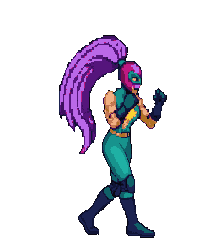
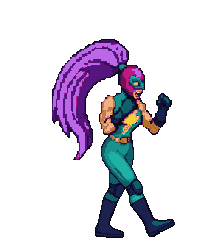
Consistencia de tamano medida y walk rehecho con la plantilla rocosa
- tools/consistency.py: compara cada frame con la stance (mascara, alto total,
  coleta, tinta y ancho de torso a +-5 %; piernas solo informativo) y falla si
  el personaje cambia de tamano.
- Causa del fallo que se veia: el walk anterior era un 11 % mas estrecho de
  torso y un 12 % mas ligero que la stance aunque la cabeza midiera lo mismo.
- style.json: entra promptTemplate, la plantilla con los cinco anclajes de
  tamano y la coletilla de la coleta. GUIA: seccion de la plantilla y de la
  comprobacion.
- Walk rehecho con esa plantilla, una pose por imagen: los 4 frames pasan el
  medidor y la paleta queda a menos de 2 puntos de la stance.

Changed region(s): [[0.24, 0.1458, 0.87, 0.9917]]

diff --git a/preview/nueva.html b/preview/nueva.html
@@ -117,7 +117,7 @@
 (() => {
   // El archivo no se toca y el escenario no lo escala: 200 nativos, 1:1.
   // ?v= para que el navegador no sirva el PNG viejo de esta misma ruta.
-  window.STAGE_FIGHTER = '../voltia/nueva/stance/00.png?v=25';
+  window.STAGE_FIGHTER = '../voltia/nueva/stance/00.png?v=26';
   // Suelo en el centro del rombo dibujado (spec.floorY es 408, el borde trasero).
   window.STAGE_FLOOR_Y = 426;
   window.STAGE_FIGHTER_SCALE = 1;
@@ -202,7 +202,7 @@
     note.textContent = anim.note || '';
     for (const f of anim.frames) {
       const im = new Image();
-      im.src = '../voltia/' + anim.dir + '/' + f + '?v=25';
+      im.src = '../voltia/' + anim.dir + '/' + f + '?v=26';
       await im.decode();
       imgs.push(im);
     }
@@ -210,7 +210,7 @@
     draw();
   }
   try {
-    const guide = await (await fetch('../voltia/guide/style.json?v=25',
+    const guide = await (await fetch('../voltia/guide/style.json?v=26',
       { cache: 'no-store' })).json();
     window.__GUIDE = guide;
     const entries = Object.entries(guide.anims || {});

diff --git a/tools/consistency.py b/tools/consistency.py
@@ -1,0 +1,108 @@
+#!/usr/bin/env python3
+"""Comprueba que un set de frames es del MISMO tamaño que la stance aprobada.
+
+La stance (voltia/nueva/stance/00.png) es el patrón. Este script mide cada
+frame y lo compara con ella:
+
+- `mascara`: alto de la cabeza. Es la escala.
+- `alto`: alto total de la figura (coleta incluida).
+- `coleta`: alto de la coleta.
+- `tinta`: píxeles opacos totales.
+- `ancho 1/3`: ancho del cuerpo a un tercio de la altura (hombros/pecho).
+- `ancho 2/3`: ancho a dos tercios (caderas y piernas).
+
+Si el ancho o la tinta se van, el personaje parece más pequeño aunque la
+cabeza mida lo mismo: es el fallo que se cuela cuando se pide "piernas
+juntas" y el modelo estrecha todo el cuerpo.
+
+Uso:
+    PYTHONPATH=tools/pylibs python3 tools/consistency.py <dir> [<dir> ...]
+        [--tol 5] [--ref voltia/nueva/stance/00.png]
+
+Sale con código 1 si algún frame se pasa de tolerancia.
+"""
+
+import os
+import sys
+
+from PIL import Image
+
+sys.path.insert(0, os.path.dirname(os.path.abspath(__file__)))
+import build_sheet as B  # noqa: E402
+
+ROOT = os.path.dirname(os.path.dirname(os.path.abspath(__file__)))
+HAIR = {(60, 15, 95), (85, 21, 124), (186, 104, 232)}
+
+
+def profile(path):
+    im = Image.open(path).convert('RGBA')
+    px = im.load()
+    w, h = im.size
+    ink = [(x, y) for y in range(h) for x in range(w) if px[x, y][3]]
+    if not ink:
+        return None
+    hp = [(x, y) for (x, y) in ink if px[x, y][:3] in HAIR]
+    top = min(y for _, y in ink)
+    bot = max(y for _, y in ink)
+
+    def width(frac):
+        y = int(top + (bot - top) * frac)
+        xs = [x for x, yy in ink if yy == y]
+        return (max(xs) - min(xs) + 1) if xs else 0
+
+    return {
+        'mascara': B.mask_height(im),
+        'alto': bot - top + 1,
+        'coleta': (max(y for _, y in hp) - min(y for _, y in hp) + 1) if hp else 0,
+        'tinta': len(ink),
+        'ancho 1/3': width(0.33),
+        'ancho 2/3': width(0.66),
+    }
+
+
+def main(argv):
+    tol = 5.0
+    if '--tol' in argv:
+        tol = float(argv[argv.index('--tol') + 1])
+    ref = os.path.join(ROOT, 'voltia', 'nueva', 'stance', '00.png')
+    if '--ref' in argv:
+        ref = argv[argv.index('--ref') + 1]
+    dirs = [a for a in argv if not a.startswith('--')
+            and a not in (str(tol), ref)] or [os.path.dirname(ref)]
+
+    base = profile(ref)
+    print('patrón: %s  %s\n' % (os.path.relpath(ref, ROOT), base))
+    bad = 0
+    for d in dirs:
+        if not os.path.isdir(d):
+            continue
+        print(d)
+        for name in sorted(os.listdir(d)):
+            if not name.endswith('.png'):
+                continue
+            p = profile(os.path.join(d, name))
+            if not p:
+                continue
+            diffs = {k: 100.0 * (p[k] - base[k]) / base[k] if base[k] else 0.0
+                     for k in base}
+            # El ancho a 2/3 es el de las piernas: en un paso cambia de verdad,
+            # así que se informa pero no bloquea. El tamaño lo mandan la cabeza,
+            # el alto, la tinta y el ancho del torso.
+            over = [k for k in diffs if k != 'ancho 2/3' and abs(diffs[k]) > tol]
+            flag = '  OK' if not over else '  <-- FUERA (%s)' % ', '.join(over)
+            if over:
+                bad += 1
+            print('  %s  mascara %2d  %s%s'
+                  % (name, p['mascara'],
+                     '  '.join('%s %+5.1f%%' % (k, v) for k, v in diffs.items()),
+                     flag))
+        print('')
+    if bad:
+        print('%d frame(s) fuera de ±%.1f%%: el personaje no mide lo mismo.' % (bad, tol))
+        return 1
+    print('Todos los frames dentro de ±%.1f%% del patrón.' % tol)
+    return 0
+
+
+if __name__ == '__main__':
+    sys.exit(main(sys.argv[1:]))

diff --git a/voltia/guide/GUIA.md b/voltia/guide/GUIA.md
@@ -271,6 +271,55 @@ Lo que dicen esas tres filas, y lo que hay que copiar (sin plagiar el dibujo):
 Con esto, la alternancia ya no se pide como un truco de tonos: se pide como una
 pose más, con la pierna contraria delante y el mismo puño arriba.
 
+## La plantilla de prompt (rocosa)
+
+Todas las poses se piden con la misma plantilla; solo cambia `{POSE}`. Está
+guardada tal cual en `style.json` → `promptTemplate`.
+
+```
+Copy this sprite EXACTLY. Same character, same colours, same 16 flat inks, same
+thick dark outline, same torso, head, arms, guard, mask, visor, mouth, belt,
+bolt, gloves and ponytail.
+
+SIZE IS LOCKED. The new drawing must be the same size as the reference and stand
+in the same place: the top of the ponytail at the same height, the chin at the
+same height, the belt at the same height, the soles on the same ground line, the
+left edge of the ponytail at the same distance from the left, and the SAME width
+across the shoulders and the chest. Keep the ponytail FULL LENGTH and FULL
+THICKNESS: its tip level with the middle of the thigh. Do not slim the body, do
+not narrow the hips, do not shorten the ponytail, do not make the figure smaller
+or taller. Everything except {WHAT MOVES} stays pixel for pixel as it is.
+
+CHANGE ONLY {WHAT MOVES}: {POSE}.
+
+One single sprite, side view facing right, alone on flat bright green with
+plenty of green all around, no second figure, no floor, no shadow, no text, no
+border, no dithering, no gradients, no anti-aliasing.
+```
+
+Los cinco anclajes (arriba de la coleta, barbilla, cinturón, suelas, borde
+izquierdo de la coleta) son lo que impide que el personaje cambie de tamaño
+aunque la cabeza mida igual. La frase de la coleta va aparte porque es lo
+primero que el modelo acorta cuando se despista.
+
+**Una pose por imagen.** `{POSE}` describe solo las piernas y, si toca, los
+brazos; el resto lo arrastra la referencia.
+
+## Comprobar el tamaño antes de mirarlo
+
+```
+PYTHONPATH=tools/pylibs python3 tools/consistency.py voltia/nueva/walk
+```
+
+Compara cada frame con `stance/00.png`: máscara, alto total, coleta, tinta y
+ancho del torso a ±5 %; el ancho de las piernas (2/3) solo se informa, porque en
+un paso cambia de verdad. Si algún frame se sale, se regenera ESA pose, no se
+reescala: reescalar por frame es justo lo que descuadraba el idle.
+
+Fallo real que cazó esto: el walk anterior tenía la cabeza a 29 px (bien) pero el
+torso un 11 % más estrecho y un 12 % menos de tinta que la stance. El personaje
+parecía más pequeño sin cambiar la cabeza.
+
 ## Recorte y reducción
 
 El verde se mide en el borde de la imagen. Esta tirada dio `(28, 221, 8)`.
